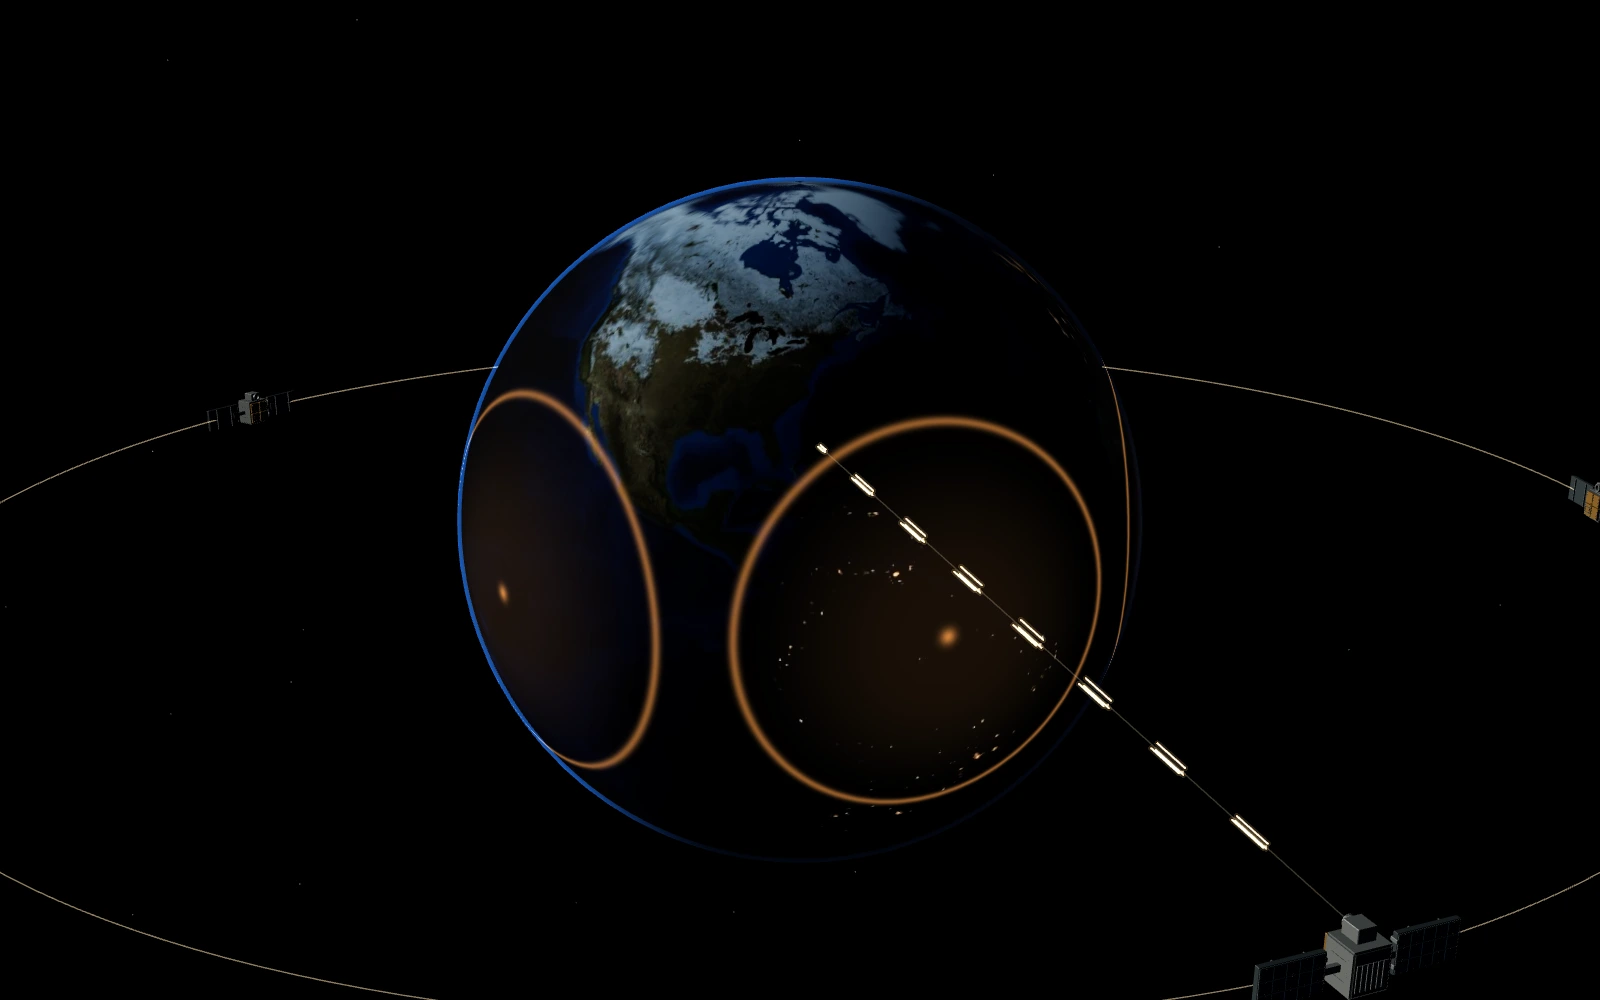
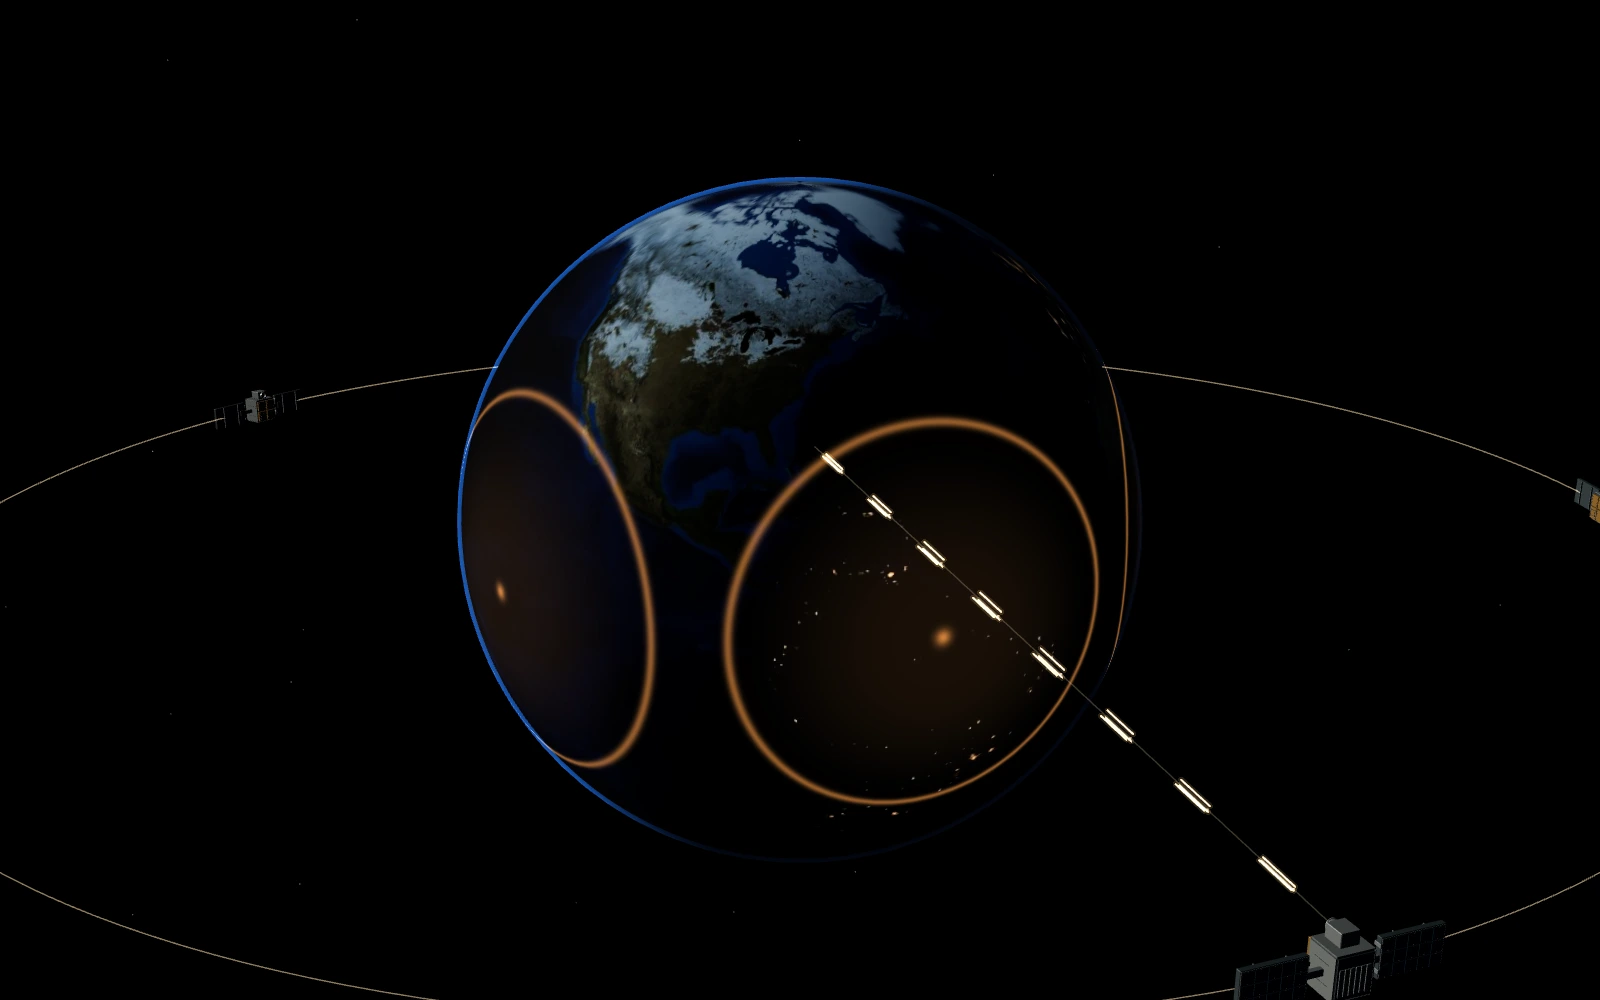
Viewer UX review round 3: phone side-level Back on the stage corner
On phones the side-level "Back to the ring" button added a second row to
the part bar and covered the bottom of the scene. It now sits at the
stage's free top-left corner (moved back into the part bar above 760 px);
pins avoid it, and labels.mjs counts it as a stage control. Hidden during
the mission and presentation views, like the part bar.

stage.js and visualizer.js are story-still render inputs, so the browser
stills (ring, plume) were recaptured with render-story-stills.mjs and
their ?v keys bumped to ux3; Blender hardware stills kept their committed
bytes (unchanged inputs). story-freshness passes.

diff --git a/index.html b/index.html
@@ -47,7 +47,7 @@
   </header>
   <main id="main">
     <section class="hero" id="top" aria-labelledby="hero-title">
-      <div class="hero-img"><picture><source media="(max-width: 760px)" srcset="look/ring-phone.webp?v=ux2" width="780" height="960"><img src="look/ring.webp?v=ux2" width="1600" height="1000" alt="An illuminated Earth surrounded by a schematic orbital ring and enlarged representative satellites." fetchpriority="high" decoding="async"></picture><video id="ring-loop" hidden muted loop playsinline preload="none" aria-label="Schematic GEO day loop: the patches stay fixed to the rotating Earth"><source src="look/ring-loop.mp4" type="video/mp4"></video></div>
+      <div class="hero-img"><picture><source media="(max-width: 760px)" srcset="look/ring-phone.webp?v=ux3" width="780" height="960"><img src="look/ring.webp?v=ux3" width="1600" height="1000" alt="An illuminated Earth surrounded by a schematic orbital ring and enlarged representative satellites." fetchpriority="high" decoding="async"></picture><video id="ring-loop" hidden muted loop playsinline preload="none" aria-label="Schematic GEO day loop: the patches stay fixed to the rotating Earth"><source src="look/ring-loop.mp4" type="video/mp4"></video></div>
       <div class="hero-in">
         <p class="eyebrow">Light · Data · Heat <span> / Orbit to pixel</span></p>
         <h1 id="hero-title">The Guardian Ring</h1>
@@ -174,7 +174,7 @@
       <section class="level-study" id="photon" aria-labelledby="photon-title">
         <header class="study-heading"><p class="eyebrow">06 / The photon</p><h2 id="photon-title">Start with<br>molecular light.</h2><p class="section-lede">Hot gases emit infrared radiation in characteristic molecular bands. A civil combustion study supplies the band examples here.</p></header>
         <figure class="study-figure">
-          <picture><source media="(max-width: 700px)" srcset="look/plume-phone.webp?v=ux2" width="780" height="960"><img src="look/plume.webp?v=ux2" width="1600" height="1000" alt="A rising false-color plume above a curved atmospheric layer, with enlarged carbon dioxide and water-vapor diagrams in an inset." loading="lazy" decoding="async"></picture>
+          <picture><source media="(max-width: 700px)" srcset="look/plume-phone.webp?v=ux3" width="780" height="960"><img src="look/plume.webp?v=ux3" width="1600" height="1000" alt="A rising false-color plume above a curved atmospheric layer, with enlarged carbon dioxide and water-vapor diagrams in an inset." loading="lazy" decoding="async"></picture>
           <figcaption>Illustrative plume, as drawn. Shape, brightness, and colored light paths are artistic choices. <button type="button" class="chip assumed" data-src="story:schematic" aria-expanded="false" aria-label="Assumed: what backs the plume illustration">Assumed</button></figcaption>
         </figure>
         <div class="band-pair">

diff --git a/src/visualizer.js b/src/visualizer.js
@@ -109,4 +109,14 @@ motion.checked=!stage.reduced;
 motion.addEventListener('change',()=>{if(!motion.checked)window.grx.mission.pause();stage.setSceneActivity(motion.checked);});
 for(const name of ['scene','scene-settings'])on(name,()=>{motion.checked=!!(stage.getTeaching()?.state().playing||stage.built[stage.destination()]?.motion?.());});
 stage.onTick(()=>{const playing=!!(stage.getTeaching()?.state().playing||stage.built[stage.destination()]?.motion?.());if(motion.checked!==playing)motion.checked=playing;});
+// Phone: the side-level Back button rides at the stage's free top-left corner instead of
+// adding a second row to the part bar, which would cover the scene above it.
+const backOut=document.getElementById('back-out'),hudBtns=document.getElementById('hud-btns'),phoneStage=matchMedia('(max-width:760px)');
+function placeBackOut(){
+  const onStage=phoneStage.matches,view=document.getElementById('view');
+  if(onStage&&backOut.parentElement!==view)view.append(backOut);
+  else if(!onStage&&backOut.parentElement!==hudBtns)hudBtns.prepend(backOut);
+  backOut.classList.toggle('stage-back',onStage);
+}
+phoneStage.addEventListener('change',placeBackOut);placeBackOut();
 stage.start();

diff --git a/src/styles.css b/src/styles.css
@@ -1571,6 +1571,9 @@ body.atmosphere-view .mode, body.atmosphere-view #animation-controls, body.atmos
   .assembly-controls > span:first-child, .assembly-controls > div, .assembly-controls .btn { flex:none; white-space:nowrap; }
   .assembly-controls .assembly-note { flex:1 1 0; min-width:0; max-width:none; }
   /* Docked in the open sheet (orbit-controls.js): a block in the sheet, not an overlay on the stage. */
+  /* Side-level Back on the stage's top-left corner (visualizer.js placeBackOut). */
+  body.app #back-out.stage-back { position:absolute; top:12px; left:12px; z-index:8; min-height:44px; max-width:calc(100% - 24px); white-space:nowrap; }
+  body.app #back-out.stage-back[hidden], body.app.mission-active #back-out.stage-back, body.app.presentation-view #back-out.stage-back { display:none; }
   body.app #orbit-controls .btn { min-width:44px; }
   body.app #orbit-controls.docked { position:static; transform:none; width:auto; max-width:none; margin:0 0 12px; justify-content:flex-start; }
 }

diff --git a/src/app/stage.js b/src/app/stage.js
@@ -219,7 +219,7 @@ function updatePins() {
   const origin=view.getBoundingClientRect();
   // Use the painted area, not the box: the title's contrast scrim (::before)
   // extends past its box and sits above the pin layer.
-  const hudBounds=[...view.querySelectorAll('.hud,.hud-row,#scene-note,#hud-btns,#orbit-controls')].filter(el=>el.checkVisibility()).map(el=>{
+  const hudBounds=[...view.querySelectorAll('.hud,.hud-row,#scene-note,#hud-btns,#orbit-controls,#back-out')].filter(el=>el.checkVisibility()).map(el=>{
     const r=paintedRect(el);return {left:r.left-origin.left,right:r.right-origin.left,top:r.top-origin.top,bottom:r.bottom-origin.top};
   });
   built[ui.scene]?.updateLabels?.(camera,{width,height,obstacles:hudBounds});
